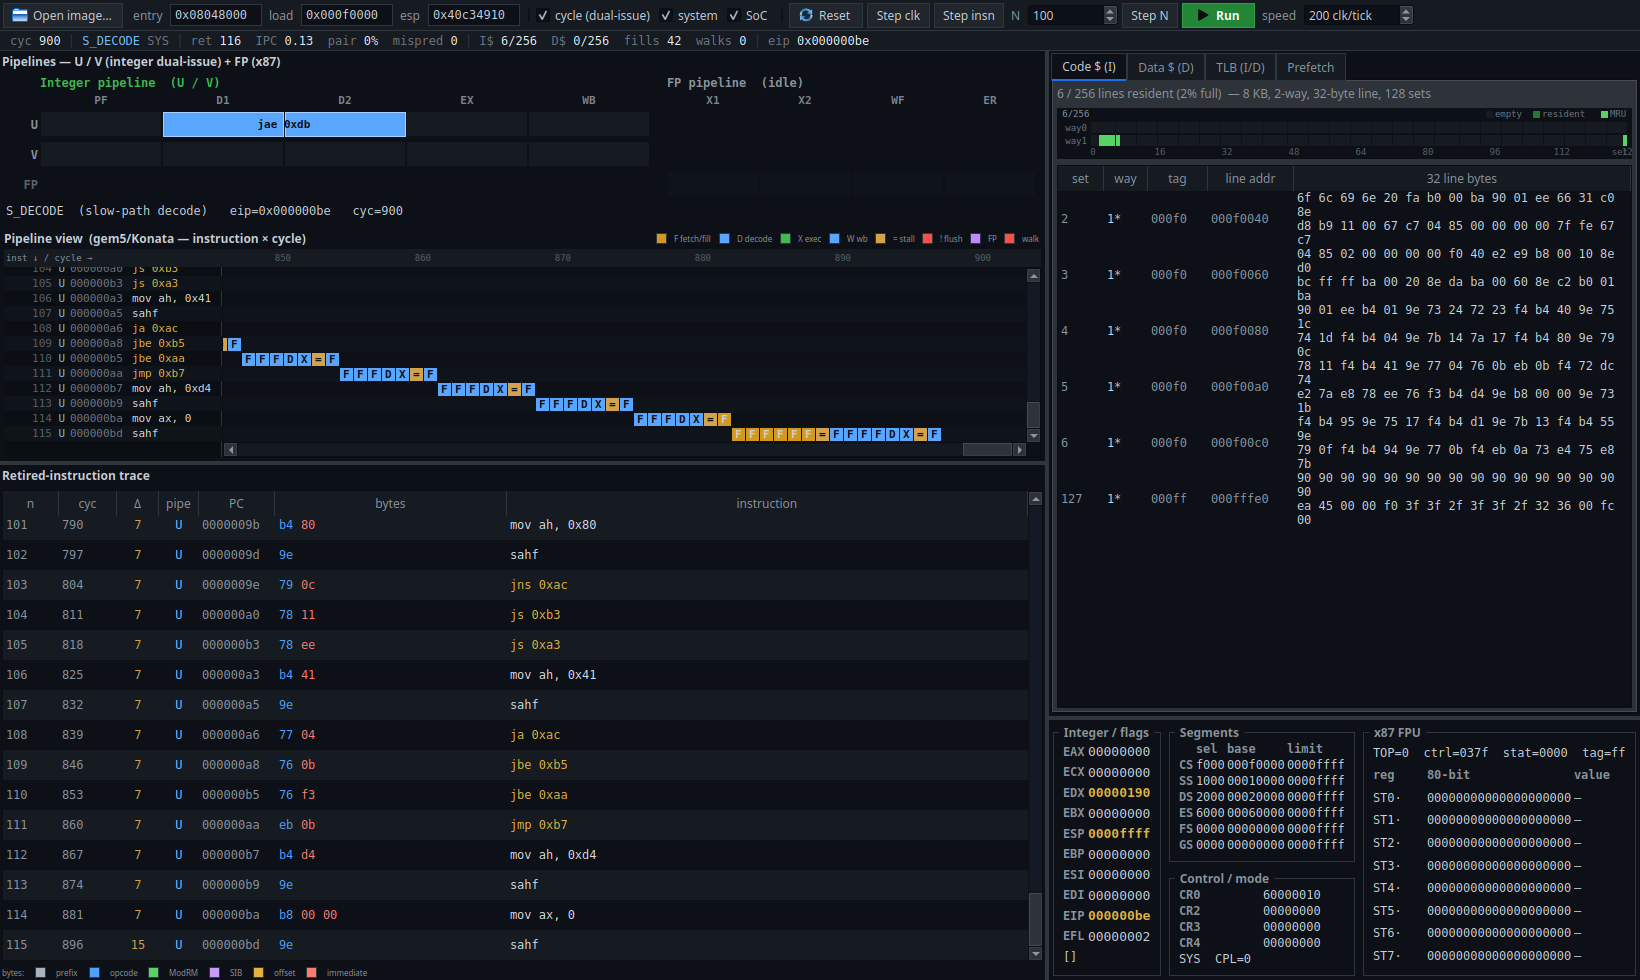
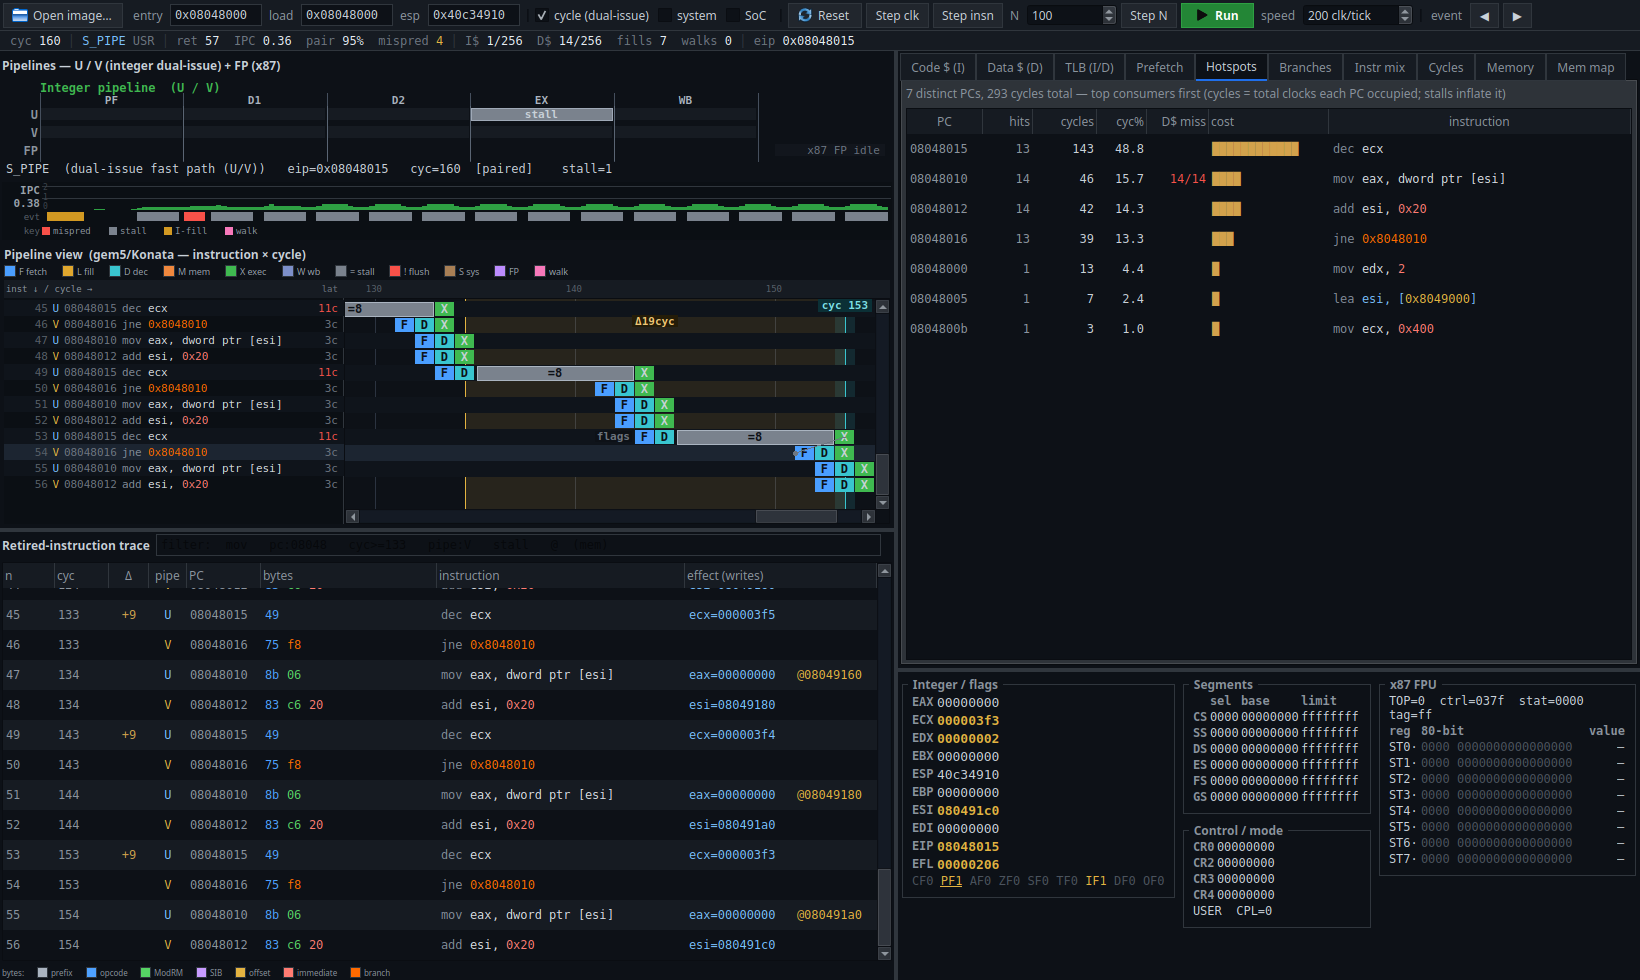
pipeviz: refresh README + overview for the mature viewer; conclude the loop
The self-improving visual loop is stopped (by request) after iteration 46. The
GUI converged at iter41 and the last four reviews found 0 GUI defects, so this
brings the user-facing docs up to date with the final feature set.

README.md:
- "What you see" now covers all TEN analysis tabs (Code$/Data$ with replayed
  miss-rate, TLB, Prefetch, Hotspots + per-PC D$ miss, Branches/BTB, Instr-mix,
  Cycles attribution, Memory inspector, Mem-map scatter) instead of the original
  four; documents the Konata interactive features (register pinning, cycle
  playhead, producer->consumer dependency edges, PC-group highlight, Delta-measure
  band, "stuck" banner, latency badges), the IPC/stall sparkline, and the trace
  effect column + field-coloured disassembly + filter box.
- Controls: corrected the keyboard shortcuts (. clk, i insn, [ / ] event-jump,
  F5 run) and added the mouse interactions (click-to-pin, shift-click Delta,
  Mem-map click, sparkline seek).
docs/overview.png: regenerated from a current build (dmiss with a selected
branch so the dependency edges + playhead show, Hotspots tab visible).

improvement-log.md: a short closing note recording the loop's terminal state.

diff --git a/tools/pipeviz/README.md b/tools/pipeviz/README.md
@@ -50,39 +50,75 @@ a C++17 compiler, `python3` with **PySide6** and **capstone**
 
 ## What you see
 
-* **Pipelines panel** (main, top-left)
+The window is four linked panels (see the screenshot above): the **Pipelines**
+panel (top-left), the **analysis tabs** (top-right), the retired-instruction
+**Trace** (bottom-left), and the **Registers** (bottom-right), with a grouped
+**status bar** along the top.
+
+* **Pipelines panel** (top-left)
   * *Stage board* — the classic P5 in-order stages **PF → D1 → D2 → EX → WB**
     (plus the FP **X1 / X2 / WF / ER** stages) as **U / V / FP** lanes. The
     cell(s) the core is working in this clock are lit and labelled with the
-    occupying instruction. Derived live from the FSM `state` in
-    `rtl/core/core.sv`.
+    occupying instruction. Derived live from the FSM `state` in `rtl/core/core.sv`.
   * *Pipeline view* — a **gem5/Konata-style** per-instruction timing diagram:
-    **Y axis = instructions** (one row each, retire order), **X axis = cycles**
-    (time →). Each instruction's lifecycle is reconstructed from the per-cycle
-    FSM trace and drawn as a run of coloured stage cells — **F** fetch/fill,
-    **D** decode, **X** execute, **M** mem, **W** writeback, **=** stall,
-    **!** mispredict-flush — so consecutive instructions cascade diagonally
-    (the classic superscalar pipeline diagram). Integer execute is green,
-    x87 FP execute purple; a stalled instruction's stage stretches (e.g. a
-    D-cache miss shows as a long amber `= = =` run before its `X`). A frozen
-    left gutter holds the instruction labels (n / U·V pipe / PC / mnemonic) and
-    a synced top axis shows cycle ticks. Hover a row for its cycle span.
-* **Memory tables** (top-right) — tabs for the **Code cache** (resident I-cache
-  lines + their 32 bytes), **Data cache** (resident D-cache lines; timing model,
-  no data array), **TLB** (valid split I/D entries — only populated under paging),
-  and the **Prefetch buffer** (`ibuf[16]` + the fast-path fetch window, live
-  decode). The I$/D$ tabs show a **256-cell occupancy heatmap** (one cell per
-  set×way) above the table for an instant picture of how full the cache is.
+    **Y = instructions** (one row each, retire order), **X = cycles** (time →).
+    Each lifecycle is reconstructed from the per-cycle FSM trace as a run of
+    coloured, glyphed stage cells — **F** fetch, **L** I-cache fill, **D** decode,
+    **X** execute (green integer / purple x87), **M** mem, **W** writeback,
+    **=** stall, **!** mispredict-flush, **S** sys/microcode — so consecutive
+    instructions cascade diagonally (the classic superscalar diagram); a stalled
+    instruction stretches (a D-cache miss is a long `=N` run before its `X`). A
+    frozen gutter holds the labels (n / U·V pipe / PC / mnemonic) + a colour-graded
+    **latency badge** (`Nc`, red when heavy). **Interactive analysis:** click an
+    instruction (cell or trace row) to **pin the registers AS-OF that retirement**,
+    drop a cyan cycle **playhead**, and draw **producer→consumer dependency edges**
+    (a line from each source register's writer; the flag-edge for a conditional
+    branch; amber+thick when it's the gating load-use that lifted a stall). It also
+    **PC-group-highlights** every other execution of the same PC (loop iterations).
+    **Shift-click** a second row for a **Δ-measure band** (latency between two
+    instructions). A red **"stuck"** banner overlays if the core wedges in a
+    front-end / halt state.
+  * *IPC / stall sparkline* — a windowed IPC track (0/1/2 axis) with per-cycle
+    event pixels (mispredict / stall / I-fill / page-walk) that doubles as a
+    **clickable seek bar** for the playhead.
+* **Analysis tabs** (top-right) — ten tabs over the live microarch state:
+  * **Code$ / Data$** — resident cache lines + a **256-cell set×way occupancy
+    heatmap**; the Data$ header also reports a **replayed miss-rate** (the resolved
+    access stream run through a client-side 2-way-LRU model matching the hardware
+    `dcache_timing` geometry, so it names the cause of the load-stall bubbles).
+  * **TLB** — valid split I/D entries (only populated under paging).
+  * **Prefetch** — the `ibuf[16]` + the fast-path fetch window, with a live decode.
+  * **Hotspots** — a per-PC cycle-cost profile (perf/VTune-style; stalls inflate
+    cost so the slow PCs bubble up), with a **D$ miss** column attributing the
+    replayed misses to each load/store PC.
+  * **Branches** — a per-branch-PC BTB profile (type / target / hits / taken% / bias).
+  * **Instr mix** — an instruction-class histogram + the realised **U/V dual-issue**
+    split.
+  * **Cycles** — a **cycle-attribution** breakdown (every cycle classified by FSM
+    state: retire / issue-stall / mispredict / I-fill / decode / load-store /
+    page-walk / x87 / system / halt), so the tallest bar is the bottleneck.
+  * **Memory** — a hex/ASCII inspector (type an address, or follow EIP / ESP / the
+    most-recent load-store **access**, which gold-outlines the touched bytes).
+  * **Mem map** — an **address-vs-retire-order scatter** of the load/store stream
+    (a strided walk reads as a diagonal, a hot location as a band) with the dominant
+    stride; **click a point** to jump the trace + Registers + Memory tab to it.
 * **Trace panel** (bottom-left) — one row per retired instruction: `n`, retire
-  cycle, issuing pipe (U/V), PC, raw **bytes**, and the capstone disassembly.
-  The bytes are coloured by x86 field: **light-gray prefix, blue opcode, green
-  ModRM, purple SIB, yellow displacement, red immediate**. The disassembly is
-  16- or 32-bit per instruction (driven by the live CS.D), so real-mode and
-  protected-mode code both decode correctly.
-* **Status bar** — live `IPC`, dual-issue `pair%`, `mispred` count, I$/D$
-  occupancy, I-cache `fills`, page-table `walks`, and the current FSM state/mode.
-* **Registers panel** (bottom-right) — GPRs, decoded EFLAGS, segments, control
-  registers, and the x87 stack (logical ST(0..7) with decoded `floatx80` values).
+  cycle, **Δ** (stall gap), pipe (U/V), PC, raw **bytes** (coloured by x86 field:
+  prefix gray / opcode blue / ModRM green / SIB purple / displacement gold /
+  immediate salmon / branch-rel orange), the **disassembly** (field-coloured to
+  match, 16/32-bit per the live CS.D), and an **effect** column showing what each
+  instruction architecturally *wrote* — destination GPR + committed value (blue),
+  changed flags (teal), x87 ST(0) result (purple), x87 exceptions (amber), and the
+  resolved memory-access address of a load/store (gold). A **filter box** accepts
+  `mov` / `pc:08048` / `cyc>=133` / `pipe:V` / `stall` / `@` (memory-accessing rows).
+* **Registers panel** (bottom-right) — GPRs, **EFLAGS** as a named-bit grid (set =
+  amber, changed underlined), segments, control registers, and the **x87 stack**
+  (logical ST(0..7) with the 80-bit hex split sign/exp ␣ mantissa + decoded
+  `floatx80`). Values that changed this step are amber; the panel can be **pinned
+  AS-OF a retired instruction** (click a trace row / Konata cell) — an amber
+  `PINNED n=… cyc=…` banner shows that instruction's post-commit state.
+* **Status bar** — `cyc` · FSM state/mode · `ret` / `IPC` / dual-issue `pair%` /
+  `mispred` · I$/D$ occupancy / I-cache `fills` / page-table `walks` · `eip`.
 
 ## Controls
 
@@ -95,9 +131,17 @@ a C++17 compiler, `python3` with **PySide6** and **capstone**
 | **SoC** | run the full `ventium_soc` (internal port-I/O / PIC / PIT) — needed for bare-metal images like test386. Requires `build.sh --soc`; auto-ticked for test386. |
 | **Reset** | re-cold-reset on a fresh model (clears memory) |
 | **Step clk** (`.`) | advance one core clock |
-| **Step insn** (`Space`) | advance until the next retirement |
+| **Step insn** (`i`) | advance until the next retirement |
 | **Step N** | advance N clocks |
 | **Run / Pause** (`F5`) | free-run at *speed* clocks per refresh tick |
+| **event** ◀ / ▶ (`[` / `]`) | jump the playhead to the prev / next pipeline event (mispredict / stall / I-fill / page-walk) |
+
+Mouse interactions: **click** a Konata cell or a trace row to pin the registers
+to that instruction and drop a cycle playhead (the trace ↔ pipeline selection is
+two-way); **shift-click** a second Konata row to measure the cycle Δ between two
+instructions; **click** a point in the **Mem map** to jump the trace + Memory tab
+to that load/store; **click** the IPC sparkline to seek the playhead. Stepping
+unpins the registers back to the live state.
 
 ## Architecture
 

diff --git a/tools/pipeviz/docs/improvement-log.md b/tools/pipeviz/docs/improvement-log.md
@@ -192,6 +192,20 @@ not repeat itself.
 ## Iterations
 <!-- newest first; appended by the loop -->
 
+### Loop concluded (after iteration 46)
+The self-improving visual loop was stopped here by request. The tool reached a stable
+terminal equilibrium: the GUI itself needed no change for the final five iterations
+(since iter41), and iter43–46 were four straight reviews with **0 GUI defects** — the
+adversarial critics now produce only perception errors and one source-level-impossible
+false-positive (pinned-Segments), all correctly refuted. Over the run the loop shipped
+genuine, ground-truthed fixes when they existed (the D-cache miss-rate + per-PC analyses,
+the dependency-arrowhead and Mem-map placement fixes, the instruction-column elision) and,
+once the GUI converged, sharpened the review apparatus (watermark ASCII fix, status-bar
+review crop) — while the ground-truthing discipline correctly rejected every dead or
+redundant change (the indirect-branch mis-parse, Mem-map miss-colouring, per-PC mispredict,
+pinned-+0.0). On exit, `README.md` and `docs/overview.png` were refreshed to reflect the
+final, mature feature set.
+
 ### Iteration 46 — clean 0-pick review (4th straight); pinned-Segments refuted at the source level
 Another clean iteration — nothing shipped, by design. The review confirmed the live
 watermark (`ad92fbb`) on all 6 critics and produced **0 actionable picks** (4th straight
